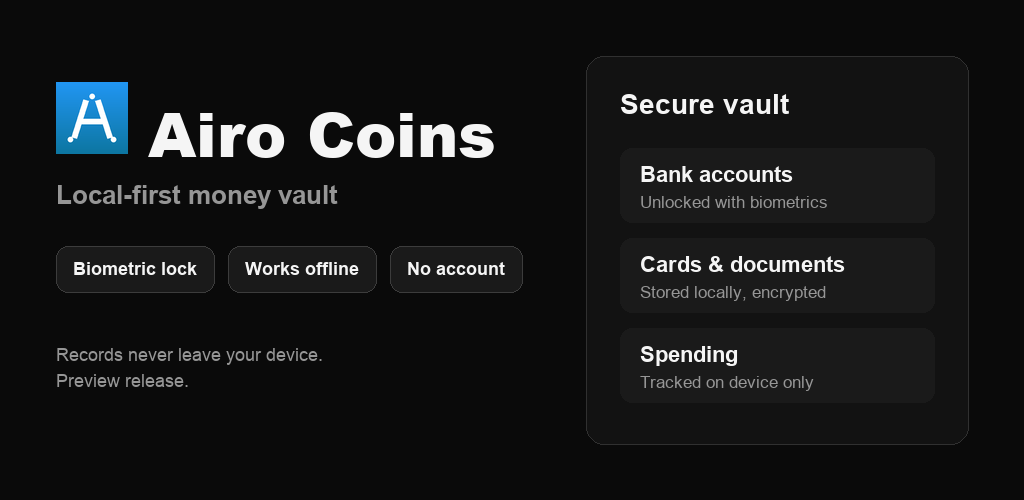
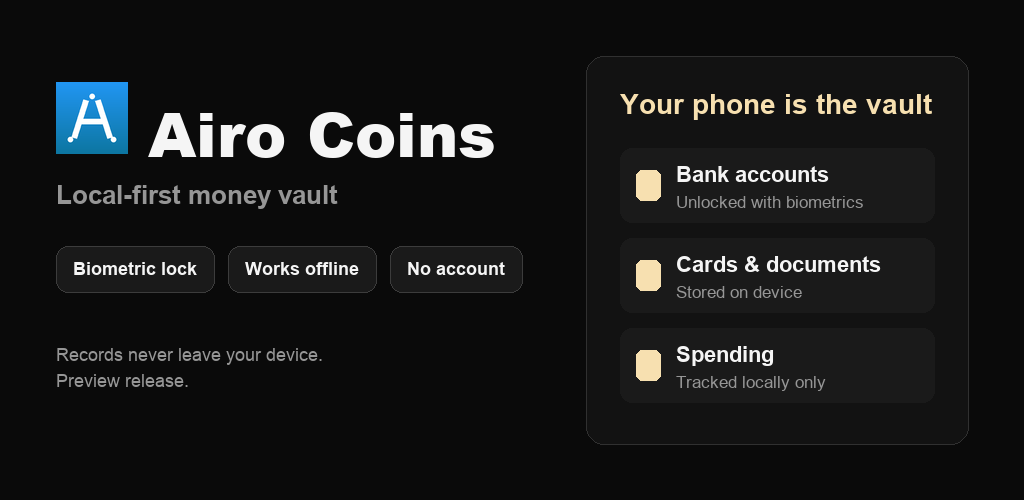
refactor(release): make the feature graphics read as the product
The mock panel rendered as three grey boxes with grey text, which described
nothing. Each row now carries a leading accent block mirroring the app's own
list rows, and the panel header takes the cream accent Airo actually uses, so
the graphic looks like the product rather than a wireframe.

Airo Coins leads with "Your phone is the vault" instead of repeating the
"Secure vault" chip, since the vault is the product rather than one feature of
it. Row copy drops "encrypted", which the listing cannot substantiate from the
public repo, in favour of "Stored on device", which it can.

The overflow guard moves with the text inset it protects; it was still checking
the old x position and would have missed a clipped subtitle.

diff --git a/scripts/make-feature-graphic.py b/scripts/make-feature-graphic.py
@@ -73,14 +73,16 @@ def render(title: str, subtitle: str, chips: list[str], note: str,
 
     # Right-hand mock panel: illustrative UI, never a real user's data.
     rounded(draw, (586, 56, 968, 444), 18, fill=(18, 18, 18), outline=(48, 48, 48))
-    draw.text((620, 88), rows[0][0], font=font("Arial Bold.ttf", 28), fill=TEXT)
+    draw.text((620, 88), rows[0][0], font=font("Arial Bold.ttf", 28), fill=ACCENT)
     ry = 148
     for label, value in rows[1:]:
         rounded(draw, (620, ry, 934, ry + 74), 12, fill=PANEL)
-        draw.text((640, ry + 14), label, font=row_font, fill=TEXT)
-        if 640 + draw.textlength(value, font=row_sub_font) > 934 - 12:
+        # Leading accent block: mirrors the app's own list rows.
+        rounded(draw, (636, ry + 22, 660, ry + 52), 6, fill=ACCENT)
+        draw.text((676, ry + 14), label, font=row_font, fill=TEXT)
+        if 676 + draw.textlength(value, font=row_sub_font) > 934 - 12:
             raise ValueError(f"row subtitle overflows the panel: {value!r}")
-        draw.text((640, ry + 44), value, font=row_sub_font, fill=MUTED)
+        draw.text((676, ry + 44), value, font=row_sub_font, fill=MUTED)
         ry += 90
 
     out.parent.mkdir(parents=True, exist_ok=True)
@@ -114,9 +116,10 @@ def main() -> int:
             "Local-first money vault",
             ["Biometric lock", "Works offline", "No account"],
             "Records never leave your device.\nPreview release.",
-            [("Secure vault", ""), ("Bank accounts", "Unlocked with biometrics"),
-             ("Cards & documents", "Stored locally, encrypted"),
-             ("Spending", "Tracked on device only")],
+            [("Your phone is the vault", ""),
+             ("Bank accounts", "Unlocked with biometrics"),
+             ("Cards & documents", "Stored on device"),
+             ("Spending", "Tracked locally only")],
             args.icon, args.out,
         )
     print(f"wrote {path} ({Image.open(path).size})")
